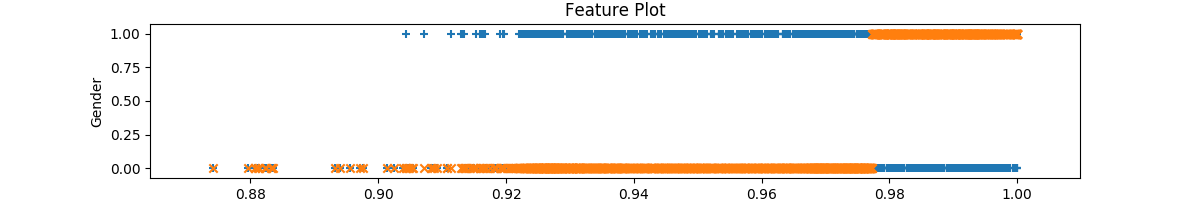
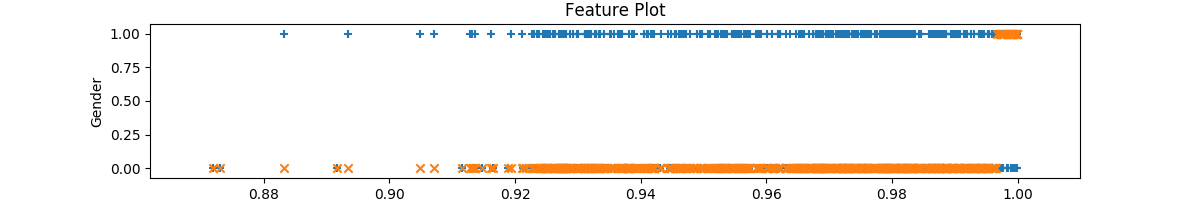
multi feature model

diff --git a/SVM.py b/SVM.py
@@ -12,7 +12,7 @@ from datetime import datetime as dt
 from sklearn import svm
 from sklearn import model_selection, preprocessing, linear_model, naive_bayes, metrics, svm
 from sklearn.feature_extraction.text import TfidfVectorizer, CountVectorizer
-from sklearn.metrics import classification_report 
+from sklearn.metrics import classification_report, accuracy_score
 from sklearn.model_selection import train_test_split
 from sklearn.pipeline import Pipeline, FeatureUnion
 import pandas, numpy, textblob, string
@@ -38,7 +38,8 @@ def main():
         screen_name = [d["screen_name"] for d in data]
         gender = np.where(np.array([d["gender"] for d in data]) == 'M', 0, 1)
 
-'''
+        #testL = [[d["name"], d["description"]] for d in data]
+
         # create models, plot and then get accuracy of models
         created_at_acc = created_at_model(created_at, gender)
         favourites_acc = favourites_count_model(favourites_count, gender)
@@ -53,8 +54,8 @@ def main():
         plotAccuracy(created_at_acc, favourites_acc,
                      color_acc, listed_acc, description_acc,
                      tweet_acc, name_acc, 'Accuracy')
-'''
-        combinedFeatures(name, created_at, gender)
+
+#        combinedFeatures(name, created_at, gender)
 
 def normaliseData(x):
     scale=x.max(axis=0)
@@ -79,6 +80,7 @@ def plotAccuracy(created_at_acc, favourites_acc,
     plt.ylabel('Accuracy')
     plt.title('Accuracy of features')
     graph = 'plots/' + graph_name + '.png'
+    plt.show()
 
 def plotSingleFeatureData(X, actY, predY, graph_name):
     fig, ax = plt.subplots(figsize=(12,2))
@@ -91,6 +93,7 @@ def plotSingleFeatureData(X, actY, predY, graph_name):
     graph = 'plots/' + graph_name + '.png'    
     fig.savefig(graph)
 
+'''
 def plotMultiFeatureData(X, y, predY, scale, model, graph_name):
     fig, ax = plt.subplots(figsize=(12,8))
     # plot the data
@@ -110,18 +113,7 @@ def plotMultiFeatureData(X, y, predY, scale, model, graph_name):
     ax.set_ylabel('Color 2')
     graph = 'plots/' + graph_name + '.png'    
     fig.savefig(graph)
-
-def isPredictionCorrect(y, pred):
-  if y == pred:
-    return 1
-  else:
-    return 0
-
-def getAccuracy(actY, predY):
-    acc = reduce(lambda m, n: m+n, list(map(isPredictionCorrect, actY, predY)))
-
-    return (acc / len(actY))
-
+'''
 ''' 
     Models that ARE NOT doing text classification
 '''
@@ -129,8 +121,8 @@ def getAccuracy(actY, predY):
 def created_at_model(created_at, y):
     # create Model
     (X, Xscale) = normaliseData(np.array(created_at).reshape(-1,1))
-    Xtrain, Xtest, ytrain, ytest = train_test_split(X, y, test_size=0.3)
-    clf = svm.SVC(kernel='linear', C = 1.0)
+    Xtrain, Xtest, ytrain, ytest = train_test_split(X, y, test_size=0.1)
+    clf = svm.NuSVC(kernel='poly')
     #getCAndGamma(clf, X, y, 'created_at_model')
     clf.fit(X, y)
 
@@ -140,8 +132,9 @@ def created_at_model(created_at, y):
     print('created_at Model metrics: ')
     print(classification_report(ytest, predY))
     plotSingleFeatureData(Xtest, ytest, predY, 'Created_At')
-
-    return getAccuracy(ytest, predY)
+    accuracy = accuracy_score(ytest, predY)
+    print(str(accuracy))
+    return accuracy
 
 def color_model(profile_background_color, profile_sidebar_fill_color,
                 profile_text_color, profile_sidebar_border_color, gender):
@@ -152,7 +145,7 @@ def color_model(profile_background_color, profile_sidebar_fill_color,
     X=np.column_stack((X1, X2))
     # create Model
     Xtrain, Xtest, ytrain, ytest = train_test_split(X, gender, test_size=0.1)
-    clf = svm.SVC(kernel='poly', C = 1, degree=5)
+    clf = svm.NuSVC(kernel='poly')
     #getCAndGamma(clf, Xtest, ytest, 'color_model')
     clf.fit(Xtrain, ytrain)
 
@@ -162,13 +155,15 @@ def color_model(profile_background_color, profile_sidebar_fill_color,
     print('color Model metrics: ')
     print(classification_report(ytest, predY))
     #plotMultiFeatureData(Xtest, ytest, predY, scale, clf, 'Color')
-    return getAccuracy(ytest, predY)    
+    accuracy = accuracy_score(ytest, predY)
+    print(str(accuracy))
+    return accuracy  
 
 def favourites_count_model(favourites_count, y):
     # create Model
     (X, _) = normaliseData(np.array(favourites_count).reshape(-1,1))
-    Xtrain, Xtest, ytrain, ytest = train_test_split(X, y, test_size=0.3)
-    clf = svm.SVC(kernel='poly', C=10, gamma=10, degree=3)
+    Xtrain, Xtest, ytrain, ytest = train_test_split(X, y, test_size=0.1)
+    clf = svm.NuSVC(kernel='poly', degree=3)
     #getCAndGamma(clf, X, y, 'favourites_count_model')
     clf.fit(Xtrain, ytrain)
     # make predicitions
@@ -178,13 +173,15 @@ def favourites_count_model(favourites_count, y):
     print(classification_report(ytest, predY))
     plotSingleFeatureData(Xtest, ytest, predY, 'Favourites_Count')
 
-    return getAccuracy(ytest, predY)
+    accuracy = accuracy_score(ytest, predY)
+    print(str(accuracy))
+    return accuracy
 
 def listed_count_model(listed_count, y):
     # create Model
     (X, _) = normaliseData(np.array(listed_count).reshape(-1,1))
-    Xtrain, Xtest, ytrain, ytest = train_test_split(X, y, test_size=0.3)
-    clf = svm.SVC(kernel='poly', C=10, degree=3)
+    Xtrain, Xtest, ytrain, ytest = train_test_split(X, y, test_size=0.1)
+    clf = svm.NuSVC(kernel='poly', degree=3)
     #getCAndGamma(clf, X, y, 'listed_count_model')
     clf.fit(Xtrain, ytrain)
 
@@ -194,43 +191,66 @@ def listed_count_model(listed_count, y):
     print('listed_count Model metrics: ')
     print(classification_report(ytest, predY))
     plotSingleFeatureData(Xtest, ytest, predY, 'Listed_Count')
-    return getAccuracy(ytest, predY)
+    
+    accuracy = accuracy_score(ytest, predY)
+    print(str(accuracy))
+    return accuracy
 
 ''' 
     Models that ARE doing text classification
 '''
 
 def description_model(description, gender):
-    Xtest, ytest, predY = textClassification(description, gender,  'description_model')
+    Xtest, ytest, predY = textClassification(description, gender, 0.5, 4, 'description_model')
     print('Description Model Metrics: ')
     print(classification_report(ytest, predY))
-    return getAccuracy(ytest, predY)
+    
+    accuracy = accuracy_score(ytest, predY)
+    print(str(accuracy))
+    return accuracy
 
 def tweet_model(tweet, gender):
-    Xtest, ytest, predY = textClassification(tweet, gender, 'tweet_model')
+    Xtest, ytest, predY = textClassification(tweet, gender, 0.1, 10, 'tweet_model')
     print('Tweet Model Metrics: ')
     print(classification_report(ytest, predY))
-    return getAccuracy(ytest, predY)
+    
+    accuracy = accuracy_score(ytest, predY)
+    print(str(accuracy))
+    return accuracy
     
 def name_model(name, gender):
-    Xtest, ytest, predY = textClassification(name, gender, 'name_model')
+    Xtest, ytest, predY = textClassification(name, gender, 0.35, 7, 'name_model')
     print('Name Model Metrics: ')
     print(classification_report(ytest, predY))
-    return getAccuracy(ytest, predY)
+    
+    accuracy = accuracy_score(ytest, predY)
+    print(str(accuracy))
+    return accuracy
 
-def textClassification(X, y, name):
+'''
+def test_model(data, gender):
+    Xtest, ytest, predY = textClassification(test, gender, 'name_model')
+    print('Test Model Metrics: ')
+    print(classification_report(ytest, predY))
+    
+    accuracy = accuracy_score(ytest, predY)
+    print(str(accuracy))
+    return accuracy
+'''
+
+def textClassification(X, y, gamma_val, C_val, name):
     # create a dataframe using texts and lables
     trainDF = pandas.DataFrame()
     trainDF['text'] = X
     trainDF['label'] = y
 
     # split the dataset into training and validation datasets 
-    Xtrain, Xtest, ytrain, ytest = model_selection.train_test_split(trainDF['text'], trainDF['label'], test_size=0.3)
+    Xtrain, Xtest, ytrain, ytest = model_selection.train_test_split(trainDF['text'], trainDF['label'], test_size=0.1)
     vectorizer = CountVectorizer(stop_words='english', max_df=0.2)
     Xtrain = vectorizer.fit_transform(Xtrain)
     Xtest = vectorizer.transform(Xtest)
 
-    model = svm.SVC(C=10, gamma=1, kernel='poly')
+    model = svm.SVC(kernel='poly', C=C_val, gamma=gamma_val)
   #  getCAndGamma(model, X, y, name)
     model.fit(Xtrain, ytrain)
     predY = model.predict(Xtest)
@@ -261,35 +281,26 @@ def getCAndGamma(model, X, y, name):
     graph = 'plots/' + name + '.png'
     fig2.savefig(graph)
 '''
-
+'''
 def combinedFeatures(feature1_data, feature2_data, y):
-        # perform train/test split
-        Xtrain1, Xtest1, ytrain1, ytest1 = model_selection.train_test_split(feature1_data, y, test_size=0.1)
-        Xtrain2, Xtest2, ytrain2, ytest2 = model_selection.train_test_split(feature2_data, y, test_size=0.1)
+    # perform train/test split
 
-      
-        # define text pre-processing pipeline
-        text_pipeline = Pipeline([
-            ('vect', vectorizer=CountVectorizer(Xtrain1))
-        ])
-        
-        # define pipeline for pre-processing of numeric features
-        numeric_pipeline = Pipeline([
-            ('scaler', MinMaxScaler(Xtrain2))
-        ])
+    clf = svm.SVC(C=10, gamma=1, kernel='poly')
+    classifier = Pipeline([
+    ('features', FeatureUnion([
+        ('name', Pipeline([
+            ('vectorizer', CountVectorizer(stop_words='english',max_df=0.2))
+        ])),
+        ('description', Pipeline([
+            ('vectorizer', CountVectorizer(stop_words='english',max_df=0.2)),
+        ]))
+    ])),
+    ('clf', clf)])
 
-        # combine both steps into a single pipeline
-        pipeline = Pipeline([
-            ('features', FeatureUnion([
-                ('text_processing', text_pipeline),
-                ('num_processing', numeric_pipeline)
-            ])),
-            ('clf',SGDClassifier(loss='hinge', penalty='l2',
-                                               alpha=1e-3, random_state=42,
-                                               max_iter=5, tol=None) )
-        ])
-        pipeline.fit()
-        gs = GridSearchCV(pipeline, self.params, n_jobs=-1, cv=k_folds)
+    classifier.fit(Xtrain1, Xtrain2, ytrain1)
+    predicted = classifier.predict()
+    predicted
+'''
 
 if __name__ == '__main__':
     main()
